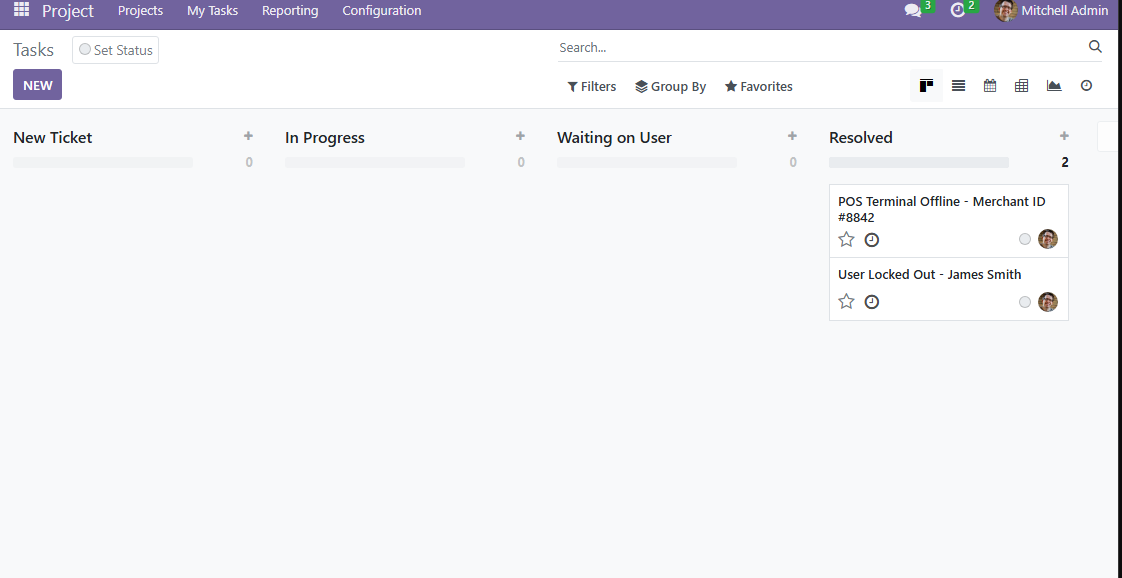
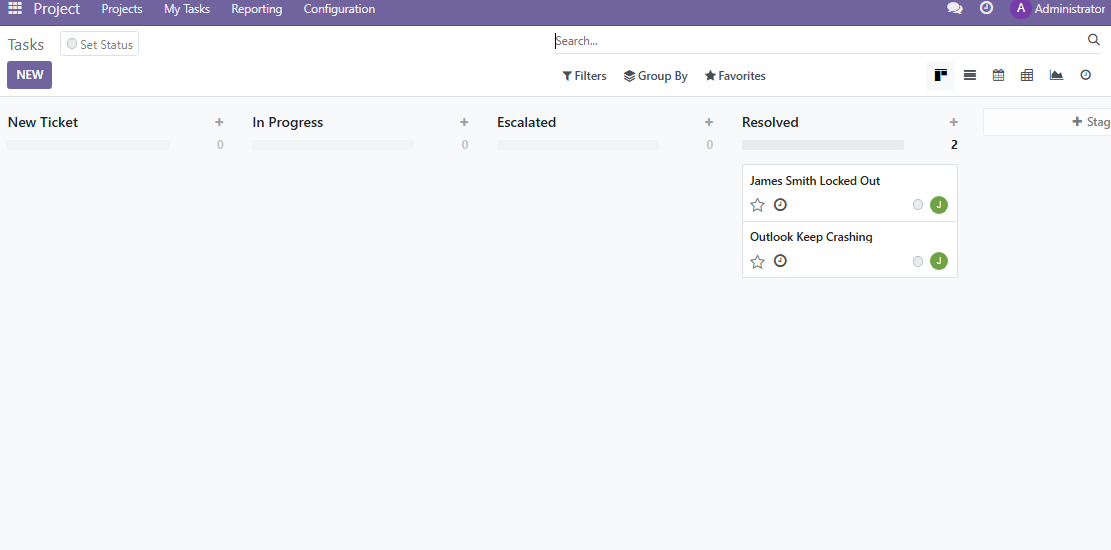
Updated ticket lab

diff --git a/Active Directory Labs/AD-005-Ticketing-Simulation/README.md b/Active Directory Labs/AD-005-Ticketing-Simulation/README.md
@@ -8,7 +8,7 @@
 * **Environment:**
     * **Identity Provider:** Windows Server 2022 Active Directory (`CORP.LOCAL`)
     * **ERP/Ticketing:** Odoo v16 (Project/Helpdesk Module)
-    * **Workstation:** Windows 10 Enterprise
+    * **Workstation:** Windows 10 Enterprise (`CLIENT01`)
     * **Security Tool:** Wazuh SIEM (Monitoring Login Failures)
 
 ### 2. Issue Simulation & Verification
@@ -19,7 +19,7 @@ The "Account Lockout" policy was triggered on the Domain Controller to replicate
 > **Exhibit A: User Lockout Message**
 >
 > ![User Locked Out Screen](./lockout.png)
-> 
+>
 >*Figure 1: Workstation error message explicitly stating "The referenced account is currently locked out."*
 
 ### 3. Incident Management (Ticketing)
@@ -37,17 +37,32 @@ Upon verification of the user's identity, a support ticket was generated in the 
 * **Ticket Details:**
     * **Subject:** `User Locked Out - James Smith`
     * **Priority:** High (Work Stoppage)
-    * **Assignee:** Mitchell Admin (IT Support)
+    * **Assignee:** Jennifer Davis (IT Support)
 
 > **Exhibit C: Ticket Documentation**
 > ![Ticket Details](./ticket.png)
-> *Figure 3: The active ticket record containing the user's report and triage details.*
+> *Figure 3: The active ticket record containing the user's initial report and triage details.*
 
-### 4. Resolution & Closure
-1.  **Administrative Action:** Accessed **Active Directory Users and Computers (ADUC)** on the Domain Controller.
-2.  **Fix:** Located the `James.Smith` object $\rightarrow$ **Account Tab** $\rightarrow$ Checked **"Unlock Account."**
-3.  **Verification:** User successfully logged in to the workstation.
-4.  **Documentation:** Ticket `User Locked Out` was updated with resolution notes and moved to the **Resolved** stage.
+### 4. Investigation & Resolution Workflow
+To ensure security compliance, the resolution followed a strict **Verify $\rightarrow$ Analyze $\rightarrow$ Remediate** workflow rather than a simple password reset.
+
+1.  **SIEM Analysis (Wazuh):**
+    * Retrieved logs confirming Event ID 4740 (Account Lockout).
+    * **Finding:** Lockout originated from `CLIENT01`, ruling out external brute-force attacks.
+    ![Wazuh](./wazuh.png)
+2.  **User Verification:**
+    * Contacted James Smith to confirm the activity.
+    * **Outcome:** User admitted to forgetting their new password; validated as user error.
+3.  **Remediation:**
+    * Unlocked account in Active Directory and guided user through password reset policy.
+4.  **SOP Adherence:**
+    * Linked the relevant Standard Operating Procedure (SOP) to the ticket for audit trails.
+    * Closed ticket only after user confirmed successful login.
+    ![SOP](./SOP.png)
+
+> **Exhibit D: Investigation Log & SOP Compliance**
+> ![Investigation Log](./lognote.png)
+> *Figure 4: Detailed activity log showing Wazuh analysis, user verification, and the link to the internal SOP (Standard Operating Procedure).*
 
 ### 5. Conclusion
-This lab demonstrates the integration between **Technical Execution** (AD Administration) and **Business Process** (ERP Ticketing). The workflow mimics real-world SLA requirements where every administrative action must be logged and tracked for audit purposes.
+This lab demonstrates the integration between **Technical Execution** (AD Administration) and **Business Process** (ERP Ticketing). The workflow mimics real-world SOC standards where every administrative action must be justified by forensic evidence (Wazuh logs) and user verification before execution.
